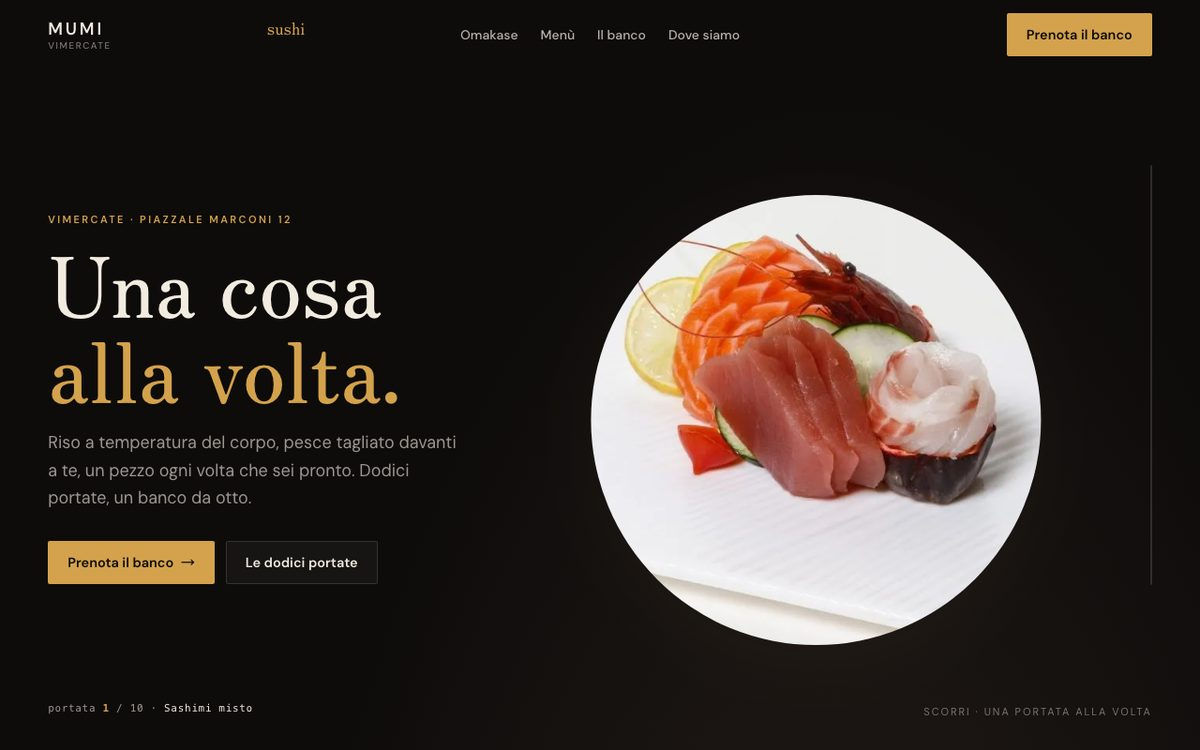
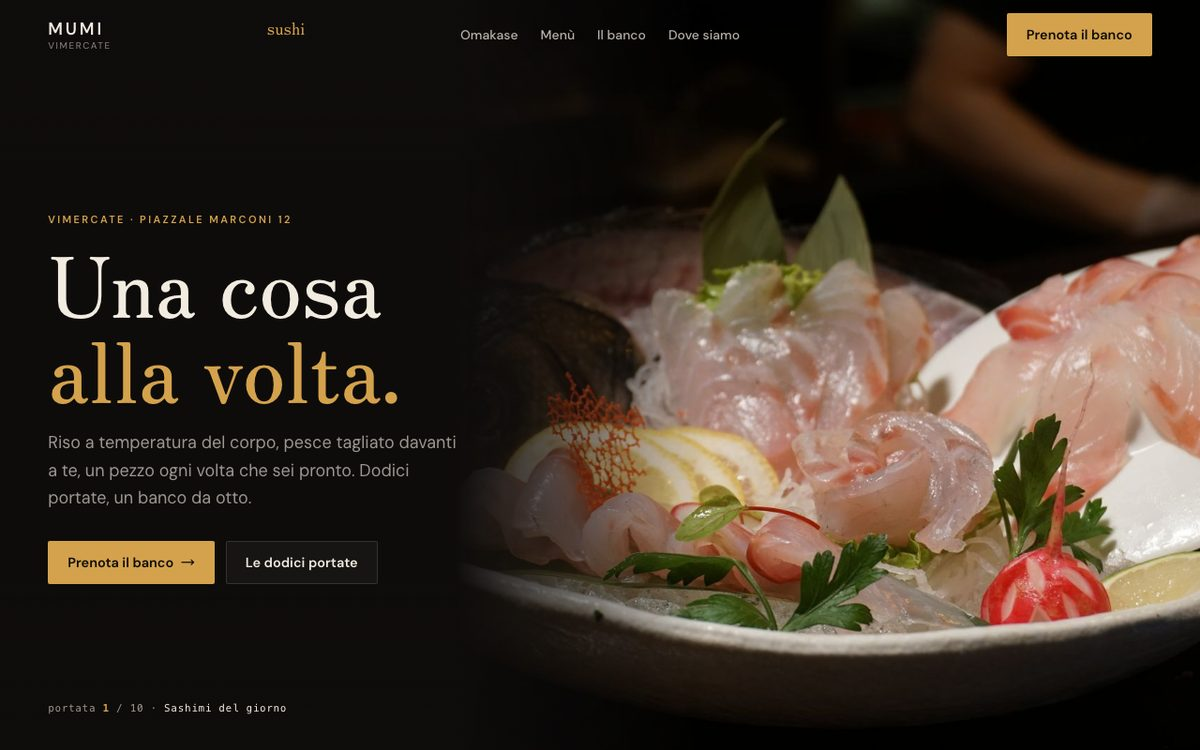
Mumi Sushi：Omakase 首屏序列与 Tavolo 分类卡换成桌面「寿司高清」里店里实拍的照片
11 张 6000×4000 的夜间实拍（暗背景带光斑）缩到 1600/900 宽；首屏十道菜整张铺右半屏、
左侧渐隐衬文字，不再需要裁圆；店址图换木盒刺身。影棚白底那套留给 Kaiten（浅色页）。

diff --git a/public/templates/sushi/styles.css b/public/templates/sushi/styles.css
@@ -67,13 +67,14 @@ section { padding: clamp(64px, 9vw, 120px) clamp(18px, 4vw, 60px); }
 [data-pin] canvas { position: absolute; inset: 0; width: 100%; height: 100%; display: block; }
 
 /* ── Hero: frame sequence ──
-   Ten real plates stacked in the same spot; only the current one is visible.
-   The photos are studio shots on white — clipping to the plate's circle is
-   what lets them sit on the dark counter instead of arriving as white cards. */
-.hero { height: 460vh; background: radial-gradient(70% 60% at 70% 45%, #2a211c, var(--nero) 70%); }
+   Ten photographs of the courses stacked in the same place; only the current
+   one is visible. They were shot in the dining room at night, so they carry
+   their own dark ground and can run full-bleed on the right — a soft fade on
+   the left is all that keeps the copy legible. */
+.hero { height: 460vh; }
 .seq { position: absolute; inset: 0; }
-.seq::before { content: ""; position: absolute; left: 68%; top: 56%; width: min(46vw, 560px); aspect-ratio: 1; transform: translate(-50%, -46%); border-radius: 50%; background: radial-gradient(circle, rgba(212, 162, 76, .16), transparent 68%); filter: blur(30px); }
-.seq img { position: absolute; left: 68%; top: 56%; width: min(40vw, 500px); aspect-ratio: 1; object-fit: cover; transform: translate(-50%, -50%) scale(var(--s, 1)); border-radius: 50%; clip-path: circle(48% at 50% 50%); opacity: var(--o, 0); box-shadow: 0 40px 60px -20px rgba(0, 0, 0, .7); transition: opacity 220ms linear, transform 320ms var(--ease-soft); }
+.seq img { position: absolute; top: 0; right: 0; bottom: 0; width: 62%; height: 100%; object-fit: cover; object-position: 60% 50%; opacity: var(--o, 0); transform: scale(var(--s, 1)); transform-origin: 70% 50%; transition: opacity 260ms linear, transform 360ms var(--ease-soft); -webkit-mask-image: linear-gradient(90deg, transparent 0%, #000 34%, #000 100%); mask-image: linear-gradient(90deg, transparent 0%, #000 34%, #000 100%); }
+.seq::after { content: ""; position: absolute; inset: 0; background: linear-gradient(180deg, rgba(14, 12, 11, .55), transparent 22%, transparent 78%, rgba(14, 12, 11, .7)); pointer-events: none; }
 .readout em { font-style: normal; color: var(--carta); }
 .hud { position: absolute; inset: 0; pointer-events: none; padding: 110px clamp(18px, 4vw, 60px) 60px; display: grid; align-content: center; justify-items: start; }
 .hud > .eyebrow, .hud > h1, .hud > .hero-actions { max-width: 560px; }
@@ -144,8 +145,8 @@ footer div a { margin-right: 18px; text-decoration: none; }
   .modal .row { grid-template-columns: 1fr; }
 }
 @media (max-width: 980px) {
-  .seq img, .seq::before { left: 50%; top: 68%; width: min(70vw, 340px); }
-  .hud { align-content: start; padding-top: 100px; }
+  .seq img { width: 100%; object-position: 50% 50%; opacity: calc(var(--o, 0) * .55); -webkit-mask-image: none; mask-image: none; }
+  .hud { align-content: end; padding-bottom: 90px; }
 }
 @media (max-width: 560px) {
   .hud h1 { font-size: 42px; }

diff --git a/public/templates/sushi/tavolo/index.html b/public/templates/sushi/tavolo/index.html
@@ -65,10 +65,10 @@
         <h2 data-split>Un colore per categoria.</h2>
       </div>
       <div class="cats" data-cats>
-        <button type="button" class="cat on" data-h="14" data-cat="nigiri"><img class="cat-img" src="../assets/nigiri-misto.webp" alt="" loading="lazy" /><span class="chip">Riso</span><i style="--c:14"></i><h3>Nigiri</h3><p>12 pezzi · da € 3</p></button>
-        <button type="button" class="cat" data-h="152" data-cat="uramaki"><img class="cat-img" src="../assets/dragon-maki.webp" alt="" loading="lazy" /><span class="chip">Roll</span><i style="--c:152"></i><h3>Uramaki</h3><p>9 roll · da € 8</p></button>
-        <button type="button" class="cat" data-h="352" data-cat="crudo"><img class="cat-img" src="../assets/sashimi-misto.webp" alt="" loading="lazy" /><span class="chip">Crudo</span><i style="--c:352"></i><h3>Sashimi &amp; tartare</h3><p>7 piatti · da € 9</p></button>
-        <button type="button" class="cat" data-h="34" data-cat="caldo"><img class="cat-img" src="../assets/ramen-gamberi.webp" alt="" loading="lazy" /><span class="chip">Caldo</span><i style="--c:34"></i><h3>Cucina calda</h3><p>8 piatti · da € 6</p></button>
+        <button type="button" class="cat on" data-h="14" data-cat="nigiri"><img class="cat-img" src="../assets/hd-nigiri-salmone-s.jpg" alt="" loading="lazy" /><span class="chip">Riso</span><i style="--c:14"></i><h3>Nigiri</h3><p>12 pezzi · da € 3</p></button>
+        <button type="button" class="cat" data-h="152" data-cat="uramaki"><img class="cat-img" src="../assets/hd-uramaki-s.jpg" alt="" loading="lazy" /><span class="chip">Roll</span><i style="--c:152"></i><h3>Uramaki</h3><p>9 roll · da € 8</p></button>
+        <button type="button" class="cat" data-h="352" data-cat="crudo"><img class="cat-img" src="../assets/hd-sashimi-vetro-s.jpg" alt="" loading="lazy" /><span class="chip">Crudo</span><i style="--c:352"></i><h3>Sashimi &amp; tartare</h3><p>7 piatti · da € 9</p></button>
+        <button type="button" class="cat" data-h="34" data-cat="caldo"><img class="cat-img" src="../assets/hd-tempura-s.jpg" alt="" loading="lazy" /><span class="chip">Caldo</span><i style="--c:34"></i><h3>Cucina calda</h3><p>8 piatti · da € 6</p></button>
         <button type="button" class="cat" data-h="275" data-cat="dolci"><img class="cat-img" src="../assets/mochi.webp" alt="" loading="lazy" /><span class="chip">Fine</span><i style="--c:275"></i><h3>Dolci</h3><p>4 dolci · da € 5</p></button>
       </div>
       <div class="list" data-list>

diff --git a/public/templates/sushi/app.js b/public/templates/sushi/app.js
@@ -28,18 +28,19 @@ const sizeCanvas = (cv, host) => { const DPR = Math.min(devicePixelRatio || 1, 2
 
 /* ── Hero: ten real plates, and the scroll picks the one on the counter ──
    The same maths as a rendered frame sequence (index = round(p × (N−1)));
-   the frames just happen to be photographs of the courses. */
+   the frames are the restaurant's own photographs, shot in the room at
+   night — the dark bokeh is what lets them sit full-bleed on this page. */
 {
   const COURSES = [
-    ['sashimi-misto', 'Sashimi misto'], ['tartare-tonno', 'Tartare di tonno'], ['gunkan-ikura', 'Gunkan salmone e ikura'],
-    ['nigiri-salmone', 'Nigiri di salmone'], ['nigiri-tonno', 'Nigiri di tonno'], ['nigiri-gambero-rosso', 'Nigiri di gambero rosso'],
-    ['nigiri-branzino', 'Nigiri di branzino'], ['nigiri-anguilla', 'Nigiri di anguilla'], ['miso', 'Zuppa di miso'], ['dorayaki', 'Dorayaki'],
+    ['hd-sashimi-piatto', 'Sashimi del giorno'], ['hd-sashimi-vetro', 'Ricciola, tonno e branzino'], ['hd-tartare-ardesia', 'Tartare in tre modi'],
+    ['hd-tartare-coppe', 'Tartare di salmone e mango'], ['hd-gunkan-ikura', 'Gunkan salmone e ikura'], ['hd-nigiri-salmone', 'Nigiri di salmone'],
+    ['hd-nigiri-gambero', 'Nigiri di gambero'], ['hd-nigiri-salmone-2', 'Nigiri di salmone scottato'], ['hd-uramaki', 'Uramaki salmone e avocado'], ['hd-tempura', 'Tempura di gamberi'],
   ];
   const N = COURSES.length;
   const sec = $('[data-seq]'), stage = $('[data-seq-stage]', sec);
   const fr = $('[data-frame]'), fname = $('[data-frame-name]'), rail = $('[data-rail]');
   $('[data-frames]').textContent = N;
-  const imgs = COURSES.map(([file, name], i) => { const im = document.createElement('img'); im.src = `./assets/${file}.webp`; im.alt = ''; im.decoding = 'async'; if (i > 1) im.loading = 'lazy'; stage.appendChild(im); return im; });
+  const imgs = COURSES.map(([file, name], i) => { const im = document.createElement('img'); im.src = `./assets/${file}.jpg`; im.alt = ''; im.decoding = 'async'; if (i > 1) im.loading = 'lazy'; stage.appendChild(im); return im; });
   let drawn = -1;
   const update = () => {
     const p = reduce ? 0 : progressOf(sec);

diff --git a/public/templates/sushi/index.html b/public/templates/sushi/index.html
@@ -48,7 +48,7 @@
             <button class="btn oro" type="button" data-open>Prenota il banco <span>→</span></button>
             <a class="btn ghost" href="#omakase">Le dodici portate</a>
           </div>
-          <div class="readout"><span>portata</span> <b data-frame>1</b> / <span data-frames>10</span> · <em data-frame-name>Sashimi misto</em></div>
+          <div class="readout"><span>portata</span> <b data-frame>1</b> / <span data-frames>10</span> · <em data-frame-name>Sashimi del giorno</em></div>
           <div class="rail"><i data-rail></i></div>
           <p class="cue">scorri · una portata alla volta</p>
         </div>
@@ -107,7 +107,7 @@
           <a class="btn ghost" href="https://wa.me/393924166908">WhatsApp</a>
         </div>
       </div>
-      <div class="store-art" aria-hidden="true"><img src="./assets/nigiri-misto.webp" alt="" loading="lazy" /></div>
+      <div class="store-art" aria-hidden="true"><img src="./assets/hd-sashimi-box-s.jpg" alt="" loading="lazy" /></div>
     </section>
   </main>
 
